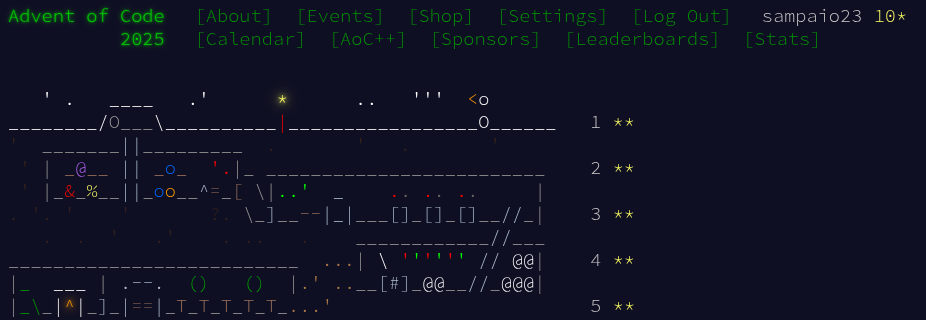
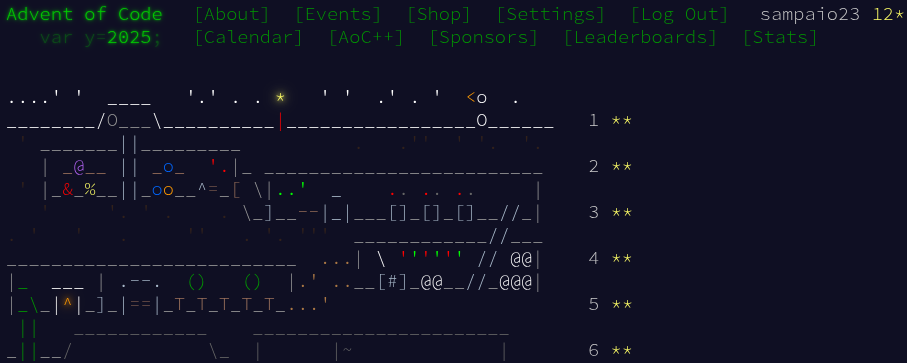
[06] Part 2 done

diff --git a/src/bin/06.rs b/src/bin/06.rs
@@ -51,8 +51,66 @@ fn part1(s: &String) -> u64 {
     return results.iter().sum::<u64>();
 }
 
-fn part2(s: &String) -> u32 {
-    todo!();
+fn part2(s: &String) -> u64 {
+    let mut matrix: Vec<Vec<char>> = Vec::new();
+
+    for index in 0..s.lines().count() {
+        let line = s.lines().nth(index).unwrap();
+        let mut i = 0;
+        for c in line.chars() {
+            if index == 0 {
+                let mut v: Vec<char> = Vec::new();
+                v.push(c);
+                matrix.push(v);
+            } else {
+                matrix.get_mut(i).unwrap().push(c);
+                i += 1;
+            }
+        }
+    }
+
+    let width = matrix.len();
+    let height = matrix[0].len();
+
+    let mut result: Vec<u64> = Vec::new();
+    let mut current: Vec<u64> = Vec::new();
+    let mut current_num: Vec<u64> = Vec::new();
+    for i in 0..width {
+        for j in 0..height {
+            let cur = matrix[width-1-i][j];
+            if cur == '*' {
+                let mut cur_num = 0;
+                for num in &current_num {
+                    cur_num = cur_num * 10 + num;
+                }
+                current.push(cur_num);
+                current_num.clear();
+                result.push(current.iter().product::<u64>());
+                current.clear();
+            } else if cur == '+' {
+                let mut cur_num = 0;
+                for num in &current_num {
+                    cur_num = cur_num * 10 + num;
+                }
+                current.push(cur_num);
+                current_num.clear();
+                result.push(current.iter().sum::<u64>());
+                current.clear();
+            } else if cur != ' ' {
+                current_num.push(cur.to_digit(10).unwrap() as u64);
+            }
+        }
+        let mut cur_num = 0;
+        if current_num.len() > 0 {
+            for num in &current_num {
+                cur_num = cur_num * 10 + num;
+            }
+            current.push(cur_num);
+            current_num.clear();
+        }
+    }
+
+    return result.iter().sum::<u64>();
 }
 
 fn main() {
